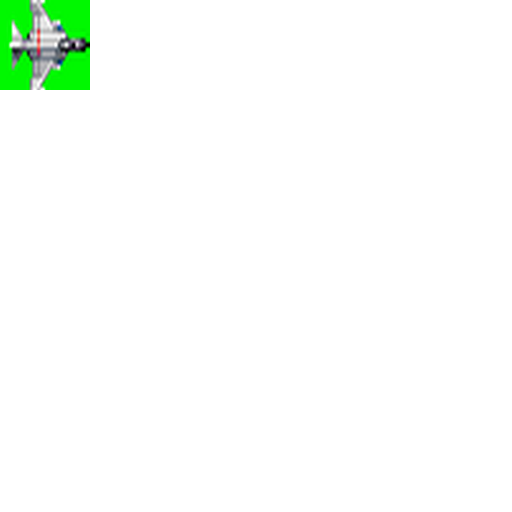
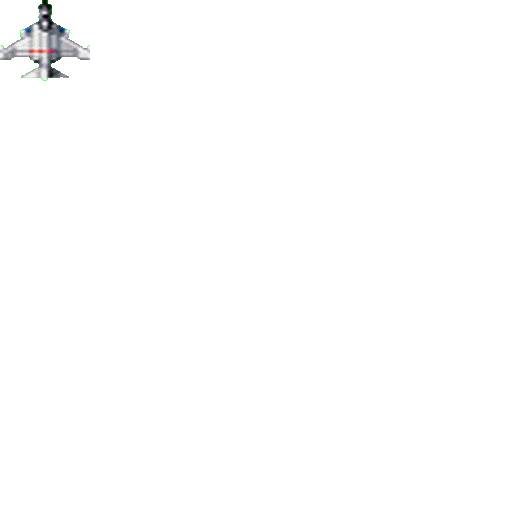
ajout des tirs des aliens et alpha sur deux trois trucs et je ferai les niveaux cette nuit

Changed region(s): [[0.0, 0.0, 0.1875, 0.1875]]

diff --git a/Slick R-Type 2.0/src/game/Vue.java b/Slick R-Type 2.0/src/game/Vue.java
@@ -45,9 +45,12 @@ public class Vue {
 	private Image[] alien = new Image[2];;
 	private Image laser;
 	private Image missile;
+	
+	private Image nastyProjectile;
 	private Image explosion;
 	private Image sheet;
 	private XMLPackedSheet sheetTest;
+	private XMLPackedSheet nastyProjectileSheet;
 	private String dossierSkin = "data/skin1";
 	private SpriteSheet skin;
 	private int[][] skinDef;
@@ -298,20 +301,23 @@ public class Vue {
 	}
 
 	public void initGame() throws SlickException{
+		sheetTest= new XMLPackedSheet ("data/pack1.png","data/pack1.png.xml");
+		nastyProjectileSheet=new XMLPackedSheet("data/nastyProjectileSheet.png","data/nastyProjectileSheet.png.xml");
 		principale = rm.getMusic("MUSIC_0");
 		principale.setVolume(volumeMusic);
 		background[0] = rm.getImage("BACKGROUD_JEU");	
 		explosion = rm.getImage("EXPLOSION");
 		missile = rm.getImage("ROCKET");
 		missile.setRotation(90.0f);
+		nastyProjectile = nastyProjectileSheet.getSprite("nastyProjectile1.gif");
+		//nastyProjectile.setRotation(270.0f);
 
 		//joueur = rm.getImage("JOUEUR");
 		sheet = rm.getImage("VAISSEAU_1");
-		sheetTest= new XMLPackedSheet ("data/pack1.png","data/pack1.png.xml");
 		//joueur = sheet.getSubImage(265,3746,123,196);
 		//joueur = sheet.getSubImage(97,45,30,30);
-		joueur=sheetTest.getSprite("VAISSEAU_1.png");
-		//joueur.setRotation(90.0f);
+		joueur=sheetTest.getSprite("VAISSEAU_1.gif");
+		joueur.setRotation(90.0f);
 		laser = sheet.getSubImage(265,3746,123,196);
 		laser.setRotation(90.0f);
 
@@ -564,7 +570,8 @@ public class Vue {
 			case 1:
 				laser.draw(ob.getX()+joueur.getWidth()/2,ob.getY()+joueur.getHeight()/2);
 				break;
-
+			case 3:
+				nastyProjectile.draw(ob.getX(), ob.getY());
 			default:
 				break;
 			}

diff --git a/Slick R-Type 2.0/src/game/Tir.java b/Slick R-Type 2.0/src/game/Tir.java
@@ -122,5 +122,10 @@ public class Tir extends Objet {
 	  x+=speed;
   }
 
+  public void nastyGo()
+  {
+	  x-=speed-6;
+  }
+  
 
 }
